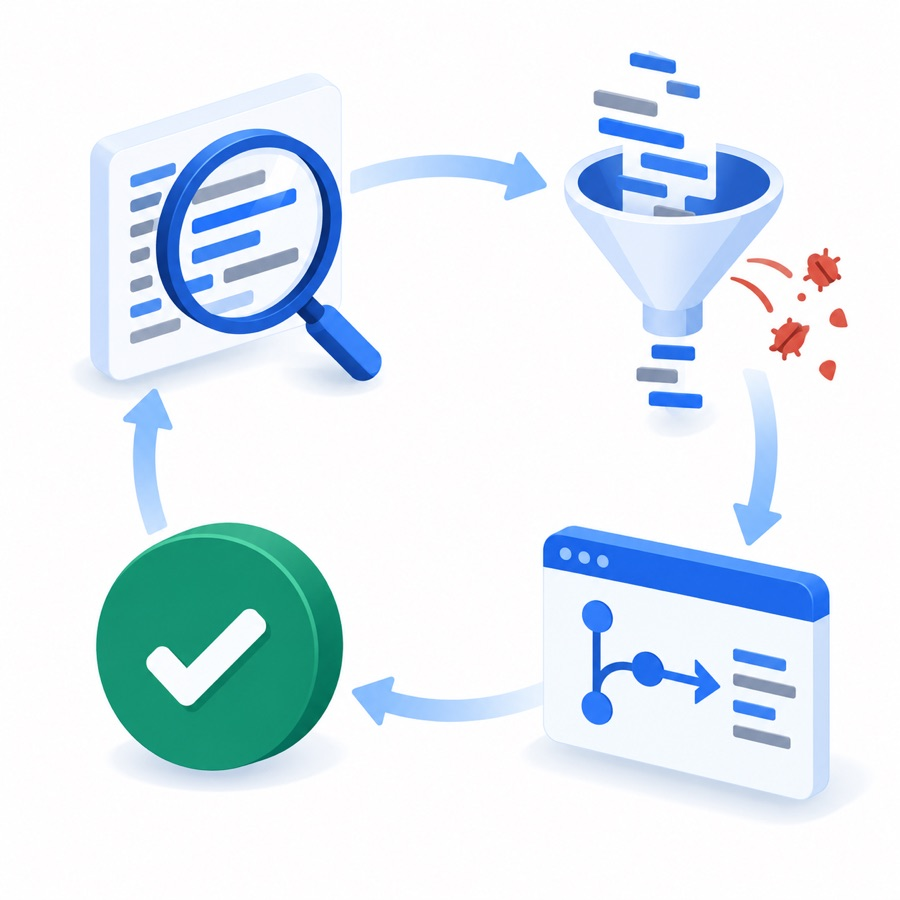
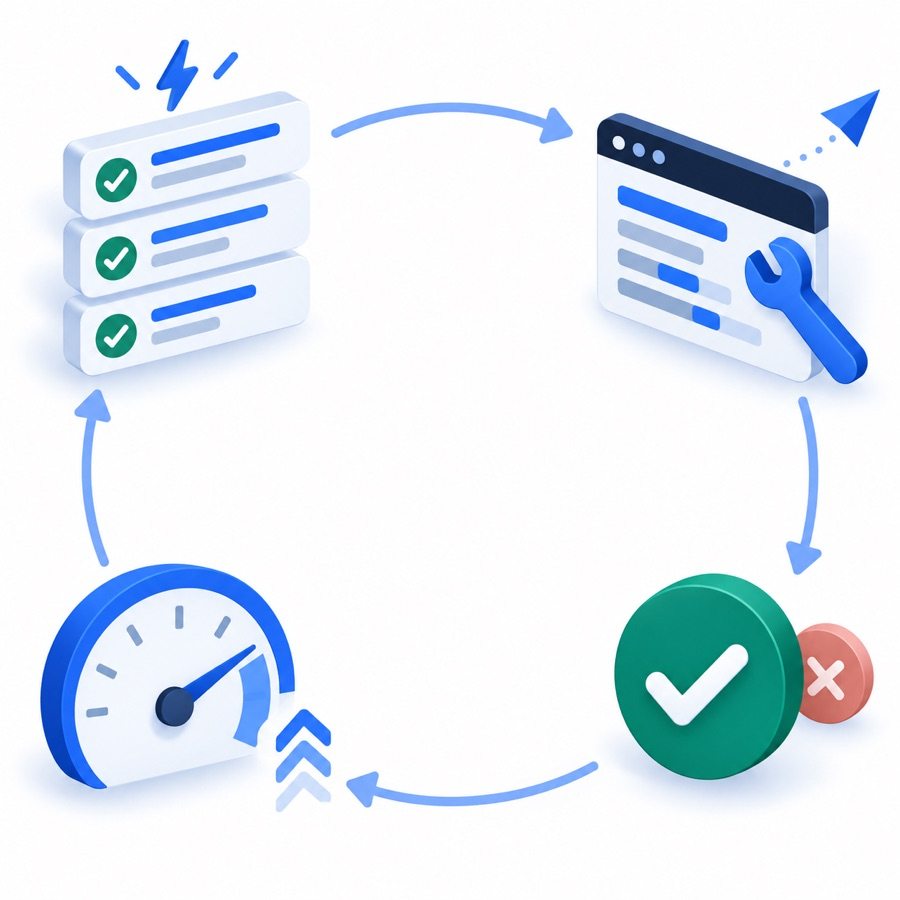
feat(landing): loop reads learn → fix → verdict → sharpen
Redrawn art and chips follow the actual cycle: axes come from merged
performance PRs, get applied to other repos as PRs, and merges/rejections
sharpen them. Section cards reordered so reading merged PRs comes first.

Claude-Session: https://claude.ai/code/session_01W9Mk18mBNfkPfgg3hYweKq

Changed region(s): [[0.0311, 0.0311, 0.9956, 0.9022], [0.9022, 0.0933, 0.9956, 0.1556]]

diff --git a/index.html b/index.html
@@ -410,7 +410,7 @@ footer .cols{display:grid;grid-template-columns:repeat(auto-fit,minmax(min(100%,
 .lc{position:absolute;display:inline-flex;align-items:center;gap:6px;padding:5px 10px 5px 6px;background:var(--paper);border:1px solid var(--line);border-radius:999px;font-size:12px;color:var(--ink-2);white-space:nowrap;box-shadow:0 2px 8px rgba(15,23,35,.06)}
 .lc b{color:var(--ink);font-size:12.5px}
 .lc .lpn{margin-right:0}
-.c1{left:6%;top:44%}.c2{right:2%;top:48%}.c3{right:6%;bottom:3%}.c4{left:6%;bottom:3%}
+.c1{left:6%;top:44%}.c2{right:3%;top:44%}.c3{right:4%;bottom:2%}.c4{left:4%;bottom:2%}
 .lcen{position:absolute;left:50%;top:50%;transform:translate(-50%,-50%);display:grid;justify-items:center;text-align:center}
 .lcen b{font-size:52px;line-height:1;color:var(--gS);letter-spacing:-.02em}
 .lcen span{font-size:12.5px;color:var(--ink-2);margin-top:2px}
@@ -581,7 +581,7 @@ body{counter-reset:step}
    </div>
    <div class="heroart">
      <div class="glow"></div>
-     <div class="loopfig"><!--auto:loop--><img src="loop.jpg" width="900" height="900" alt="" loading="eager"><span class="lc c1"><i class="lpn">1</i><span class="ko">찾는다</span><span class="en">Find</span></span><span class="lc c2"><i class="lpn">2</i><span class="ko">거른다 · 오탐 가드</span><span class="en">Filter · FP guards</span><b>34</b></span><span class="lc c3"><i class="lpn">3</i><span class="ko">낸다 · PR</span><span class="en">Submit · PRs</span><b>68</b></span><span class="lc c4"><i class="lpn">4</i><span class="ko">판정 · 머지</span><span class="en">Verdict · merged</span><b>29</b></span><div class="lcen"><b>29</b><span class="ko">머지됨</span><span class="en">merged</span></div><p class="lcap"><span class="ko">남의 저장소 19곳에 머지 · 거절 25 · 대기 14. 거절 사유와 오탐은 다시 ①의 규칙을 고친다. </span><span class="en">Merged in 19 projects · closed 25 · open 14. Rejections and false positives go back into ①. </span><a href="#impact"><span class="ko">전체 기록 →</span><span class="en">Full record →</span></a></p><!--/auto:loop--></div>
+     <div class="loopfig"><!--auto:loop--><img src="loop.jpg" width="900" height="900" alt="" loading="eager"><span class="lc c1"><i class="lpn">1</i><span class="ko">배운다 · 규칙</span><span class="en">Learn · rules</span><b>10</b></span><span class="lc c2"><i class="lpn">2</i><span class="ko">고친다 · PR</span><span class="en">Fix · PRs</span><b>68</b></span><span class="lc c3"><i class="lpn">3</i><span class="ko">판정 · 머지</span><span class="en">Verdict · merged</span><b>29</b></span><span class="lc c4"><i class="lpn">4</i><span class="ko">다진다 · 오탐 가드</span><span class="en">Sharpen · FP guards</span><b>34</b></span><div class="lcen"><b>29</b><span class="ko">머지됨</span><span class="en">merged</span></div><p class="lcap"><span class="ko">남의 저장소에서 머지된 성능 PR로 축을 정하고, 그 축으로 다른 저장소를 고쳐 PR 을 낸다. 머지·거절이 다시 축을 다듬는다 — 저장소 19곳 머지 · 거절 25 · 대기 14. </span><span class="en">Axes come from performance PRs strangers merged; we use them to fix other repos and open PRs. Merges and rejections sharpen the axes again — merged in 19 projects · closed 25 · open 14. </span><a href="#impact"><span class="ko">전체 기록 →</span><span class="en">Full record →</span></a></p><!--/auto:loop--></div>
    </div>
   </div>
 </header>
@@ -597,13 +597,13 @@ body{counter-reset:step}
          ① tools/measure-diagnostic.sh  ② tools/mine-merged-prs.py  ③ impact.json -->
     <div class="forge">
       <div class="fg"><div class="fgn">01</div>
-        <h3 class="ko">남의 코드에 걸어본다</h3><h3 class="en">Run it on strangers' code</h3>
-        <p class="ko">규칙 후보를 오픈소스 <b>74곳</b>에 걸고 걸린 자리를 하나씩 손으로 연다. <code>쓰기만 하는 컬렉션</code> 은 15건 전부 진짜여서 올렸고, <code>해제할 수 없는 등록</code> 은 16건 중 1건만 진짜라 <b>떨어뜨렸다</b>.</p>
-        <p class="en">Candidate rules run against <b>74 open-source repos</b>; every hit gets opened by hand. <code>write-only collection</code> was 15/15 real and shipped; <code>unremovable registration</code> was 1/16 and got <b>dropped</b>.</p></div>
-      <div class="fg"><div class="fgn">02</div>
         <h3 class="ko">남이 이미 고친 걸 읽는다</h3><h3 class="en">Read what others already fixed</h3>
         <p class="ko">머지된 성능 PR <b>909건</b>을 긁어 형태로 묶는다. 무엇이 실제로 고쳐지는지가 거기 있다 — 그리고 기계로 잡을 수 있는 건 <b>5%뿐</b>이라는 것도.</p>
         <p class="en">We mine <b>909 merged performance PRs</b> and group them by shape — what actually gets fixed, and that only <b>5%</b> is mechanizable.</p></div>
+      <div class="fg"><div class="fgn">02</div>
+        <h3 class="ko">남의 코드에 걸어본다</h3><h3 class="en">Run it on strangers' code</h3>
+        <p class="ko">규칙 후보를 오픈소스 <b>74곳</b>에 걸고 걸린 자리를 하나씩 손으로 연다. <code>쓰기만 하는 컬렉션</code> 은 15건 전부 진짜여서 올렸고, <code>해제할 수 없는 등록</code> 은 16건 중 1건만 진짜라 <b>떨어뜨렸다</b>.</p>
+        <p class="en">Candidate rules run against <b>74 open-source repos</b>; every hit gets opened by hand. <code>write-only collection</code> was 15/15 real and shipped; <code>unremovable registration</code> was 1/16 and got <b>dropped</b>.</p></div>
       <div class="fg"><div class="fgn">03</div>
         <h3 class="ko">직접 내본다</h3><h3 class="en">Submit it ourselves</h3>
         <p class="ko">규칙이 짚은 자리를 <b>PR 로 낸다.</b> 남의 저장소 메인테이너가 받아주거나 거절한다. 점수는 자기가 자기를 채점하지만 <b>머지는 못 조작한다.</b></p>

diff --git a/tools/update-impact-cards.py b/tools/update-impact-cards.py
@@ -686,13 +686,13 @@ def _chip(pos, n, ko, en, val=""):
     return (f'<span class="lc {pos}"><i class="lpn">{n}</i><span class="ko">{ko}</span><span class="en">{en}</span>{v}</span>')
 _loop = (
     '<img src="loop.jpg" width="900" height="900" alt="" loading="eager">'
-    + _chip("c1", 1, "찾는다", "Find")
-    + _chip("c2", 2, "거른다 · 오탐 가드", "Filter · FP guards", _fp)
-    + _chip("c3", 3, "낸다 · PR", "Submit · PRs", len(_st))
-    + _chip("c4", 4, "판정 · 머지", "Verdict · merged", _lm)
+    + _chip("c1", 1, "배운다 · 규칙", "Learn · rules", len(RULES))
+    + _chip("c2", 2, "고친다 · PR", "Fix · PRs", len(_st))
+    + _chip("c3", 3, "판정 · 머지", "Verdict · merged", _lm)
+    + _chip("c4", 4, "다진다 · 오탐 가드", "Sharpen · FP guards", _fp)
     + f'<div class="lcen"><b>{_lm}</b><span class="ko">머지됨</span><span class="en">merged</span></div>'
-    + f'<p class="lcap"><span class="ko">남의 저장소 {_lr}곳에 머지 · 거절 {_lc} · 대기 {_lo}. 거절 사유와 오탐은 다시 ①의 규칙을 고친다. </span>'
-      f'<span class="en">Merged in {_lr} projects · closed {_lc} · open {_lo}. Rejections and false positives go back into ①. </span>'
+    + f'<p class="lcap"><span class="ko">남의 저장소에서 머지된 성능 PR로 축을 정하고, 그 축으로 다른 저장소를 고쳐 PR 을 낸다. 머지·거절이 다시 축을 다듬는다 — 저장소 {_lr}곳 머지 · 거절 {_lc} · 대기 {_lo}. </span>'
+      f'<span class="en">Axes come from performance PRs strangers merged; we use them to fix other repos and open PRs. Merges and rejections sharpen the axes again — merged in {_lr} projects · closed {_lc} · open {_lo}. </span>'
       '<a href="#impact"><span class="ko">전체 기록 →</span><span class="en">Full record →</span></a></p>'
 )
 L_BEGIN, L_END = "<!--auto:loop-->", "<!--/auto:loop-->"
